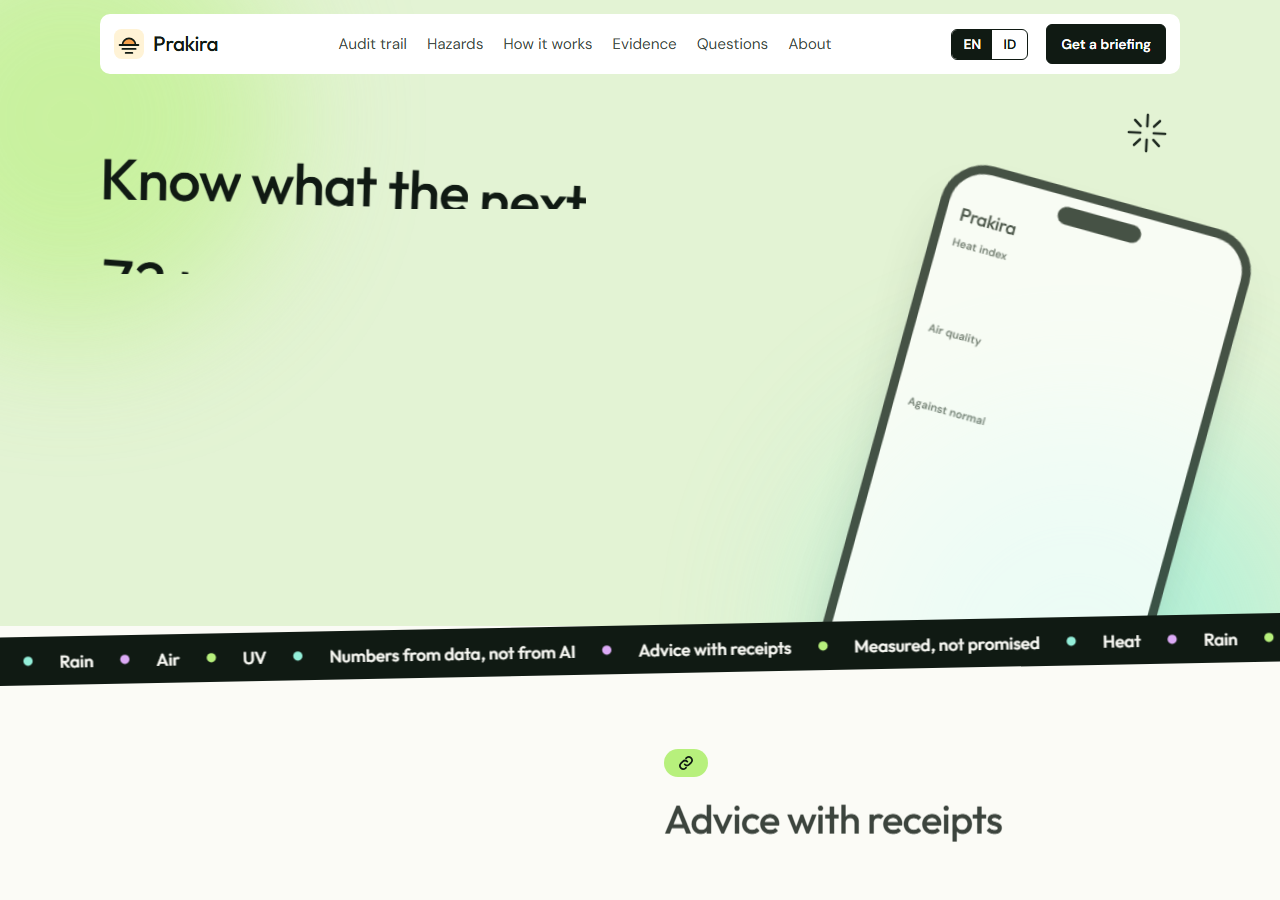
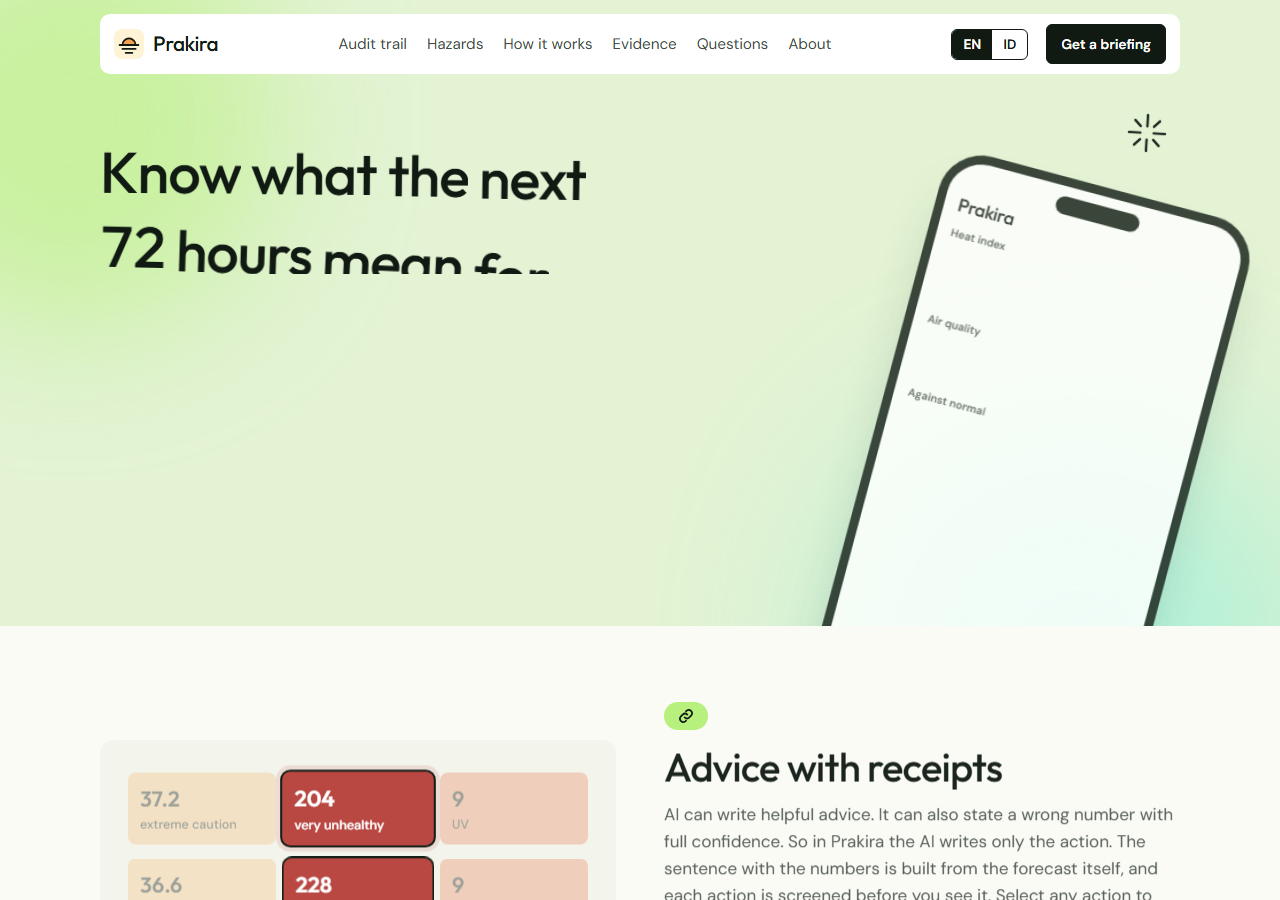
style: remove the ticker band under the hero

diff --git a/public/index.html b/public/index.html
@@ -344,14 +344,6 @@
   .hero::before { width:420px; height:420px; left:-140px; top:-90px; background:var(--lime); }
   .hero::after { width:380px; height:380px; right:8%; bottom:-170px; background:var(--mint); }
 
-  /* Ticker between the hero and the page */
-  .ticker { overflow:hidden; padding:16px 0; margin:-16px 0; position:relative; z-index:3; pointer-events:none; }
-  .tkb { background:var(--ink); color:var(--paper); transform:rotate(-1.1deg) scale(1.03); padding:13px 0; }
-  .tk { display:flex; width:max-content; }
-  .tk span { display:inline-flex; align-items:center; gap:26px; padding-right:26px; font:500 1.05rem var(--head); white-space:nowrap; }
-  .tk span::after { content:""; width:9px; height:9px; border-radius:50%; background:var(--lime); }
-  .tk span:nth-child(3n+1)::after { background:var(--mint); } .tk span:nth-child(3n+2)::after { background:var(--lilac); }
-
   /* Hazard pictures tilt towards the pointer */
   .hz .pic { transform:perspective(700px) rotateX(var(--rx, 0deg)) rotateY(var(--ry, 0deg)); transition:transform .3s cubic-bezier(.2,.8,.2,1); }
   .hz .pic::after { content:""; position:absolute; inset:0; background:radial-gradient(circle at var(--gx, 50%) var(--gy, 50%), rgba(255,255,255,.6), transparent 55%); opacity:0; transition:opacity .3s; pointer-events:none; }
@@ -385,7 +377,6 @@
     .phone .pc { animation:pop .6s cubic-bezier(.2,.8,.2,1) 1.25s backwards; } .phone .pc + .pc { animation-delay:1.45s; }
     .phone .pc span { animation:glow 3s ease-in-out 2s infinite; }
     .d-note { animation:fadeup .7s 1.2s backwards; }
-    .tk { animation:tick 46s linear infinite; }
 
     .art .c.on { animation:ring 4s ease-in-out infinite; }
     .art .row:nth-child(2) .c.on { animation-delay:.25s; }
@@ -413,7 +404,6 @@
     @keyframes stickin { from { opacity:0; transform:scale(.3) rotate(-40deg); } }
     @keyframes floaty { 50% { transform:rotate(calc(var(--pr, 13deg) - 1.5deg)) scale(var(--ps, 1)) translateY(-12px); } }
     @keyframes glow { 50% { box-shadow:0 0 0 5px rgba(23,96,63,.14); } }
-    @keyframes tick { to { transform:translateX(-50%); } }
     @keyframes ring { 0%, 60%, 100% { box-shadow:0 0 0 2px var(--ink); transform:none; } 20% { box-shadow:0 0 0 2px var(--ink), 0 0 0 10px rgba(184,68,63,.22); transform:scale(1.04); } }
     @keyframes wire { to { background-position:0 10px; } }
     @keyframes chip { 0%, 55%, 100% { background:var(--soft); transform:none; } 25% { background:var(--lime); transform:translateY(-2px) scale(1.12); } }
@@ -473,8 +463,6 @@
     </div></div>
   </div>
 </div></header>
-
-<div class="ticker" aria-hidden="true"><div class="tkb"><div class="tk"></div></div></div>
 
 <section class="band" id="meet"><div class="wrap two">
   <div class="art" aria-hidden="true">
@@ -1295,13 +1283,9 @@ document.addEventListener('keydown', (e) => { if (e.key === 'Escape') light([]);
 /* ---- Motion: decoration only. Runs fully only when the visitor has not asked for reduced motion. ---- */
 const MOTION = matchMedia('(prefers-reduced-motion: no-preference)').matches && 'IntersectionObserver' in window;
 
-// Text that is rebuilt whenever the language changes: the ticker, and the headline split into words.
+// Rebuilt whenever the language changes: the headline split into words.
 function decorate() {
   const L = t();
-  const tk = document.querySelector('.tk');
-  tk.textContent = '';
-  // An even number of repeats, so moving the row by half its width lands on an identical frame.
-  for (let k = 0; k < 6; k++) for (const w of [L.hz1, L.hz2, L.hz3, L.hz4, L.sticker, L.meetH, L.evH]) tk.appendChild(el('span', '', w));
   if (!MOTION) return;
   const h = document.querySelector('.hero h1');
   h.setAttribute('aria-label', L.h1);

diff --git a/PLAN.md b/PLAN.md
@@ -505,7 +505,7 @@ Target 3:00. Screen recording with voice. Show the real deployed site.
 - **2026-10-08 (session 5, continued).** The design change is committed, pushed and deployed (`c14eed3`); live check in both languages returned 3 of 3 actions with evidence matching the data, and the event stream still arrives step by step. Added a 10-minute pause after a failed archive request (`lib/climate.mjs`), because with the provider's quota exhausted each briefing waited for a timeout. **"Describe your home" built** (`lib/intake.mjs`, `POST /api/intake`, field and button in the page, both languages): six live descriptions in English and Indonesian were read correctly, an injection attempt produced an empty result, and the headless check confirmed chips tick, a place search starts, no briefing is requested by itself, no overflow, no console errors. `chat()` in `lib/llm.mjs` is now the single function that calls the model. 36 tests pass. **Still to do: step 4 (climate row and outlook card with real data after the quota reset) and step 5 (two models) of the plan file.**
 - **2026-10-08 (session 5, continued).** "Describe your home" deployed (`ab718b5`); live call in Indonesian read correctly. **Two forecast models side by side built** (`lib/models.mjs`, traced step `models`, a "Models" row in the strip, both languages): IFS (`ecmwf_ifs025`) against AIFS (`ecmwf_aifs025_single`; the identifier `ecmwf_aifs025` returns only nulls), temperature only, compared at 00, 06, 12, 18 UTC and assigned to local dates with the forecast's UTC offset (half-hour zones tested). Live check: Jakarta and London within about 1.5 °C, Phoenix up to 3.6 °C, Bandung about 5 °C (mountain terrain). It runs only with the climate layer, so the eval does not call it. 40 tests pass. Seen in the same check: an action "stay near water if possible" for polluted air passed the screen, which is the kind of poor action the screen cannot catch.
 - **2026-10-08 (session 6).** Two requests from the owner. **(1) Odd actions must not pass.** The screen now has a closed vocabulary (`lib/vocab.mjs`, `topicProblem()` in `lib/verify.mjs`): an action may use only words from a common list plus the list of its own hazard, and must use at least one hazard word. Lists were written from tuned-set output only. The prompt gained one line naming fitting steps per hazard. Also rejected: an action containing an underscore (a profile key copied from the prompt). **Runs 19 to 22** (00:02 to 00:06 UTC, 0 failed locations): kept EN tuned 33/43 (76.7%), EN held-out 23/27 (85.2%), ID tuned 39/43 (90.7%), ID held-out 22/27 (81.5%); AI coverage 76.3 / 84.2 / 89.8 / 84.2%; with notices 100%; reading grade median 4.8 (tuned), 4.4 (held-out). Removed: 22 for a word outside the list, 1 stay-indoors. Every kept action in the four runs was read by the AI assistant: none odd. Not comparable with runs 15 to 18 (different screen). Do not add words to the lists in response to held-out rejections. **(2) Climate row and outlook card must always show real data.** New second source `lib/power.mjs`: NASA POWER daily T2M_MAX 1991 to 2020 (MERRA-2, about 50 km, free, no key, about 1.5 s per place). `getContext` falls back to it and marks each item `source: 'MERRA-2'`; `getOutlook` falls back to a look back (hot days a year 1991 to 2000 against 2011 to 2020, `source: 'observed'`), kept on disk only so the projection replaces it when it can be fetched. Checked live: Jakarta normal 31 °C and 92 to 130 days at 30 °C; London 0 to 2 days at 30 °C; Phoenix 128 to 136 days at 35 °C. The page names the source in both languages. Deployed as `fdd7c0f`. **Plan step 4 done after the quota reset (00:10 UTC):** the projection card was seen with real CMIP6 data for the first time, in a headless browser at 375 and 1280 px and on the live endpoint (Jakarta 1 to 4 days a year at 35 °C, London 1 to 5 at 30 °C, Phoenix 151 to 164 at 35 °C, Bandung 33 to 58 at 30 °C); no overflow, no console errors. On the server the archive still answered 429 while the climate API worked, so the live climate row came from NASA POWER, as designed; `/root/apps/prakira/data/` now holds the cached files. ERA5 and MERRA-2 normals for Jakarta, London and Phoenix differ by at most 1 °C. Note for the next agent: the global git email on the laptop is one GitHub rejects on push; commit with `git -c user.email=<the email of earlier commits>`.
-- **2026-10-08 (session 6, continued).** Owner asked for the landing page to feel alive, same base style. **Motion layer** added to `public/index.html` (one CSS block at the end of the stylesheet, one script block before "First paint", no dependency): headline rises word by word, hero layers follow the pointer and float, drifting colour blobs, a tilted ticker band under the hero, sticky nav with scroll progress bar, reveal on scroll with stagger, hazard icons animate and tilt to the pointer, the "receipts" picture loops (cells, wire, number chips), the process diagram pulses step by step, evidence numbers count up, smooth FAQ open where the browser supports it, hover states on buttons, chips, cards. All of it is off under `prefers-reduced-motion`, and content is hidden for a reveal only after the script adds `.mo` to `<html>`. `decorate()` rebuilds the split headline and the ticker after every language change. **Bug fixed:** the process-line `.seg` rules also styled the language toggle in the nav (seen in the owner's screenshot); they are now scoped to `.pline .seg`. Checked headless at 1440 and 375 px and with reduced motion: no console errors, no overflow, nothing left hidden after scrolling; `scripts/ui-check.cjs` passes. Not checked: frame rate on a real phone, Safari, Firefox.
+- **2026-10-08 (session 6, continued).** Owner asked for the landing page to feel alive, same base style. **Motion layer** added to `public/index.html` (one CSS block at the end of the stylesheet, one script block before "First paint", no dependency): headline rises word by word, hero layers follow the pointer and float, drifting colour blobs, sticky nav with scroll progress bar, reveal on scroll with stagger, hazard icons animate and tilt to the pointer, the "receipts" picture loops (cells, wire, number chips), the process diagram pulses step by step, evidence numbers count up, smooth FAQ open where the browser supports it, hover states on buttons, chips, cards. All of it is off under `prefers-reduced-motion`, and content is hidden for a reveal only after the script adds `.mo` to `<html>`. `decorate()` rebuilds the split headline after every language change. **Bug fixed:** the process-line `.seg` rules also styled the language toggle in the nav (seen in the owner's screenshot); they are now scoped to `.pline .seg`. Checked headless at 1440 and 375 px and with reduced motion: no console errors, no overflow, nothing left hidden after scrolling; `scripts/ui-check.cjs` passes. Not checked: frame rate on a real phone, Safari, Firefox.
 
 **Open questions for the owner**
 
